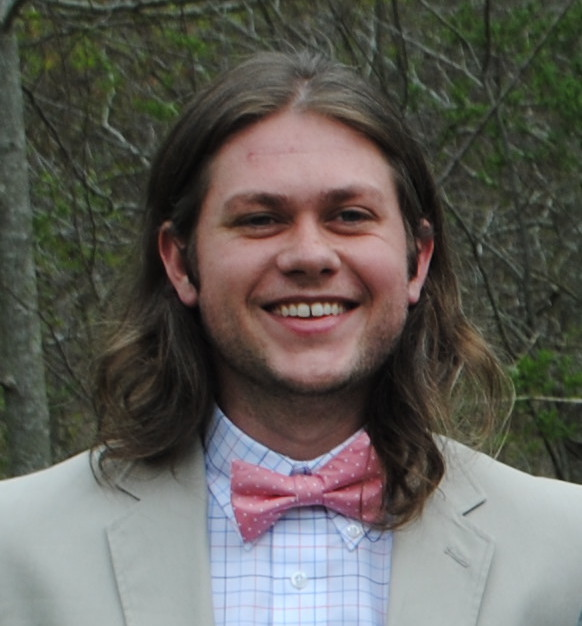
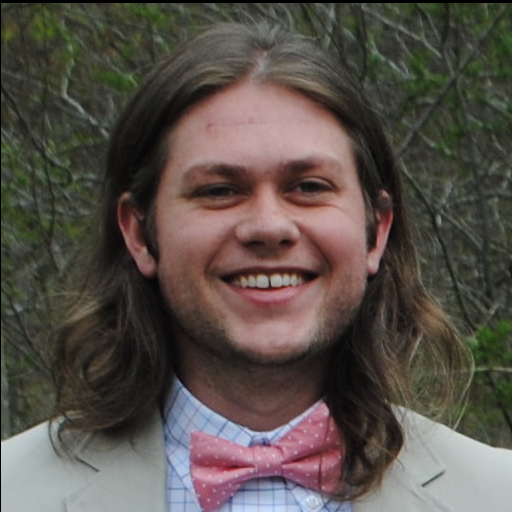
Center image

diff --git a/src/components/Intro/Intro.vue b/src/components/Intro/Intro.vue
@@ -1,7 +1,11 @@
 <template>
   <div class="intro-container">
+    <div class="image-container">
+      <div class="head-shot">
+        <img src="./nathan.png" />
+      </div>
+    </div>
     <div class="container has-text-centered">
-      <img src="./nathan.png"/>
       <h1 class="title is-2">
         Nathan Orick
       </h1>
@@ -41,9 +45,25 @@ export default {
 
 <!-- Add "scoped" attribute to limit CSS to this component only -->
 <style scoped, lang="scss">
-.intro-container {
-  background: linear-gradient(to bottom, lightblue 50%, transparent 50%);
+$imageHeight: 128px;
+$backgroundHeight: 200px;
+
+.image-container {
+  background-color: pink;
+  align-content: center;
+  .head-shot {
+    flex: 1;
+        margin: auto;
+    width: $imageHeight;
+    height: $imageHeight;
+    img {
+      // top: -$imageHeight/2;
+      width: $imageHeight;
+      height: $imageHeight;
+    }
+  }
 }
+
 .is-outlined {
   background-color: transparent;
   color: #fff;
